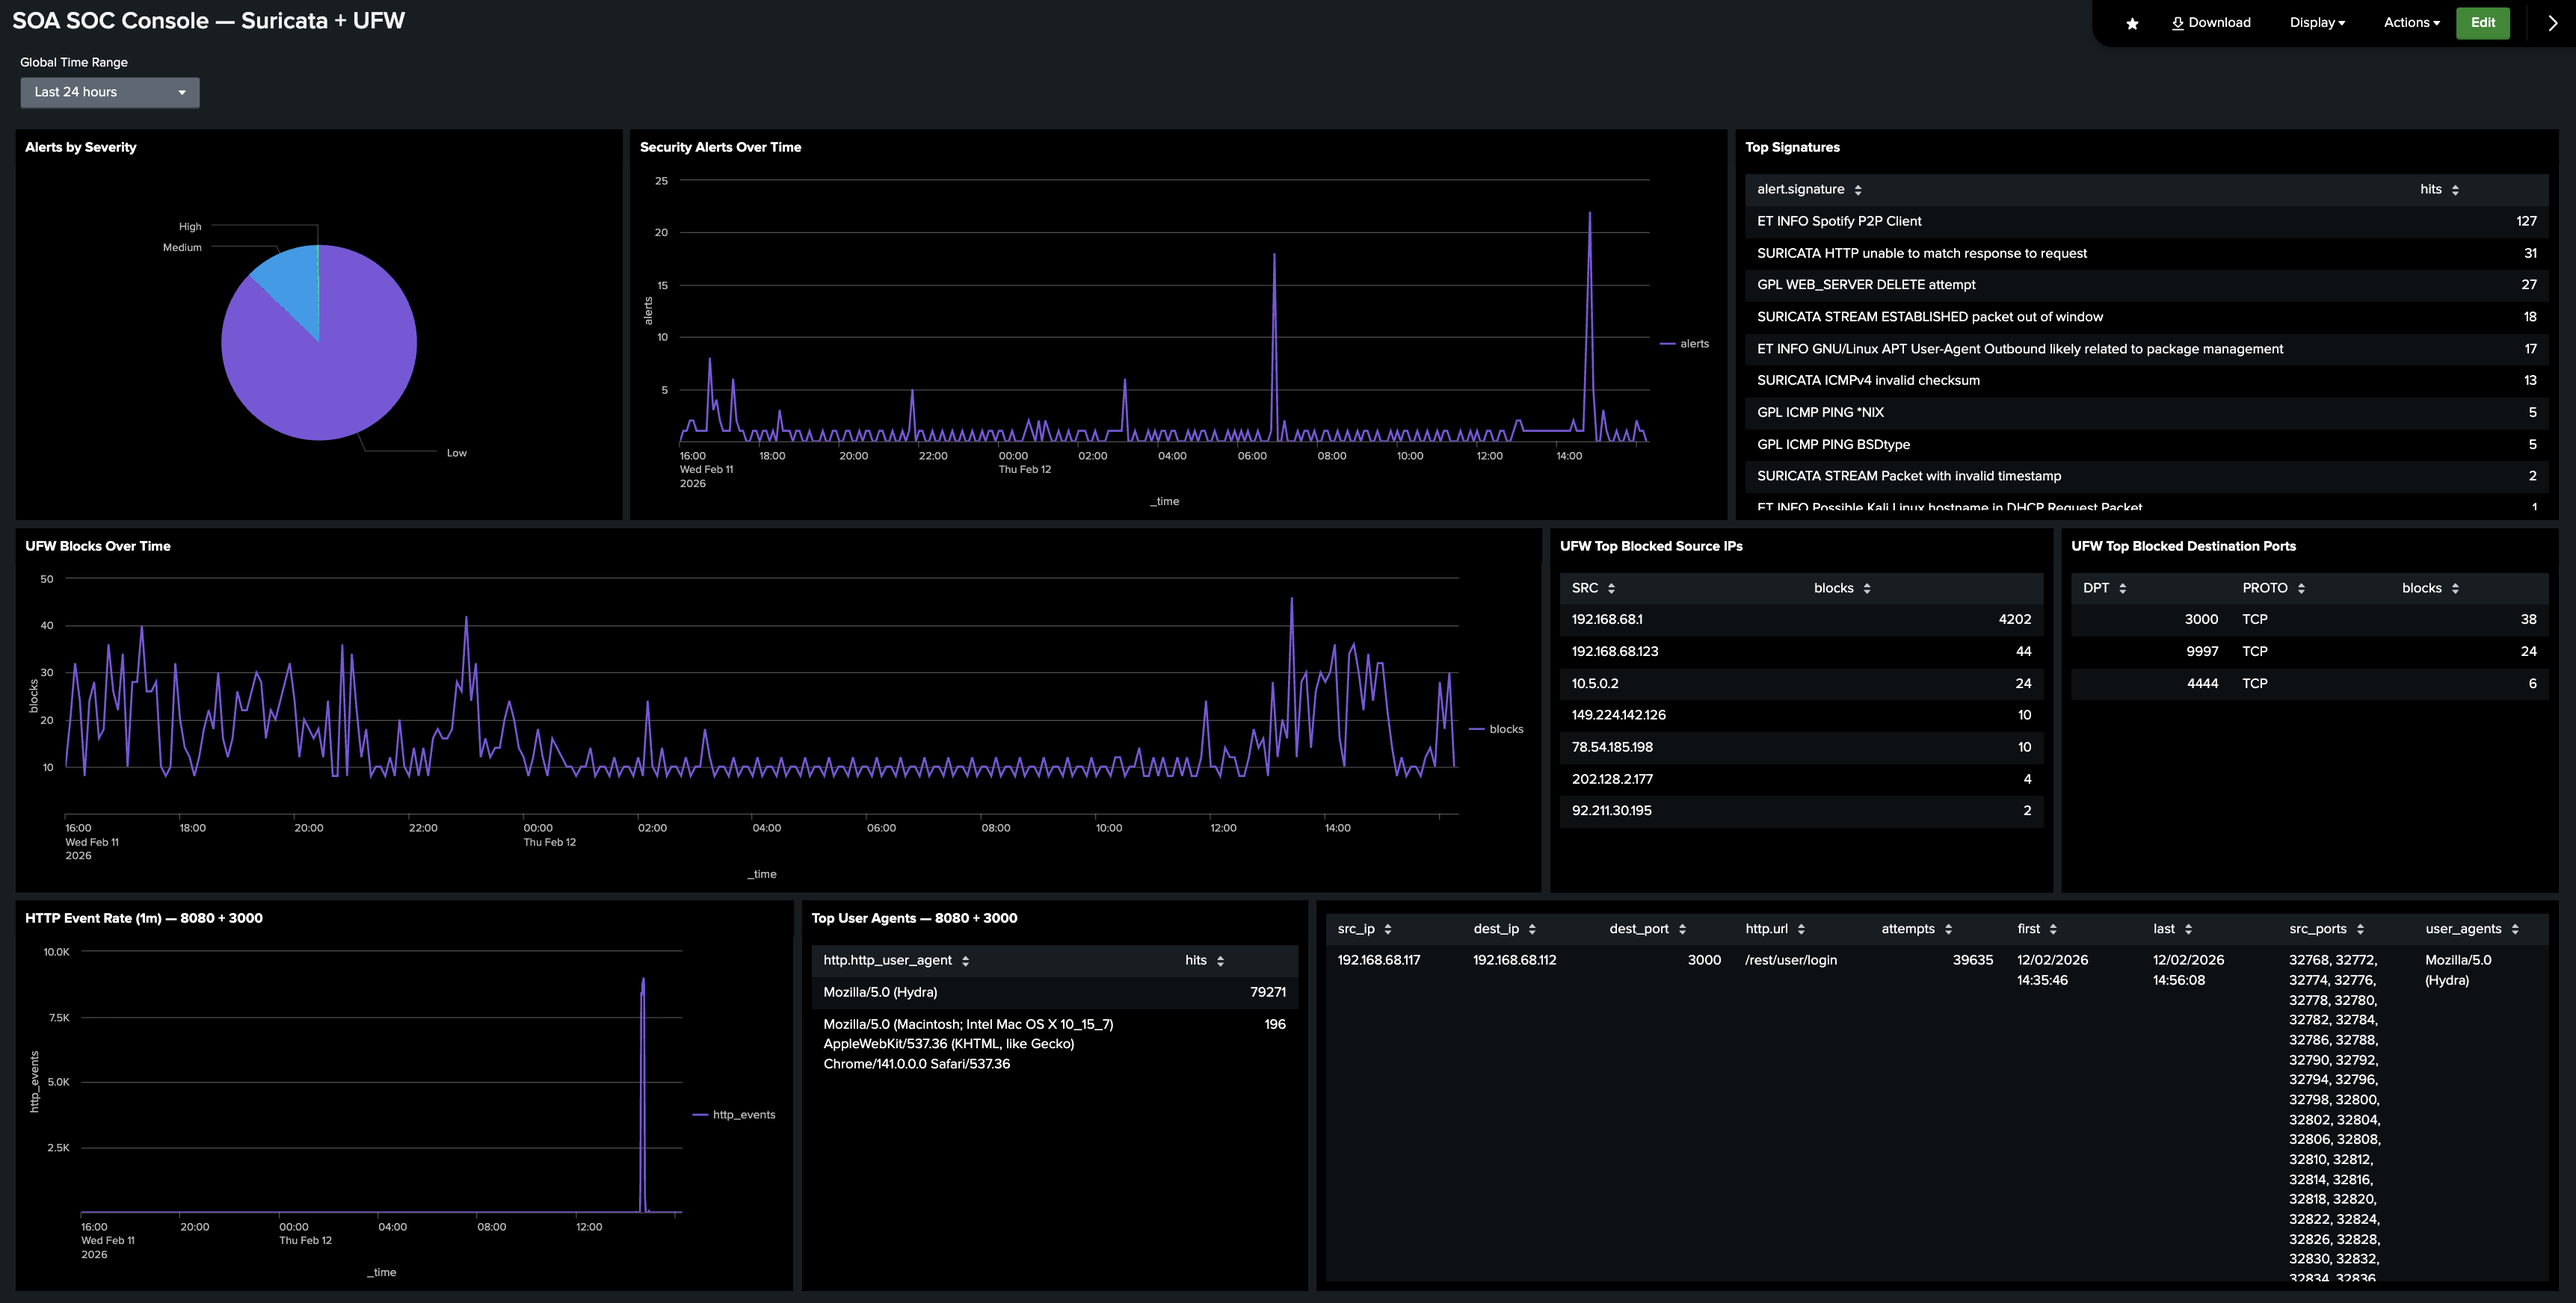
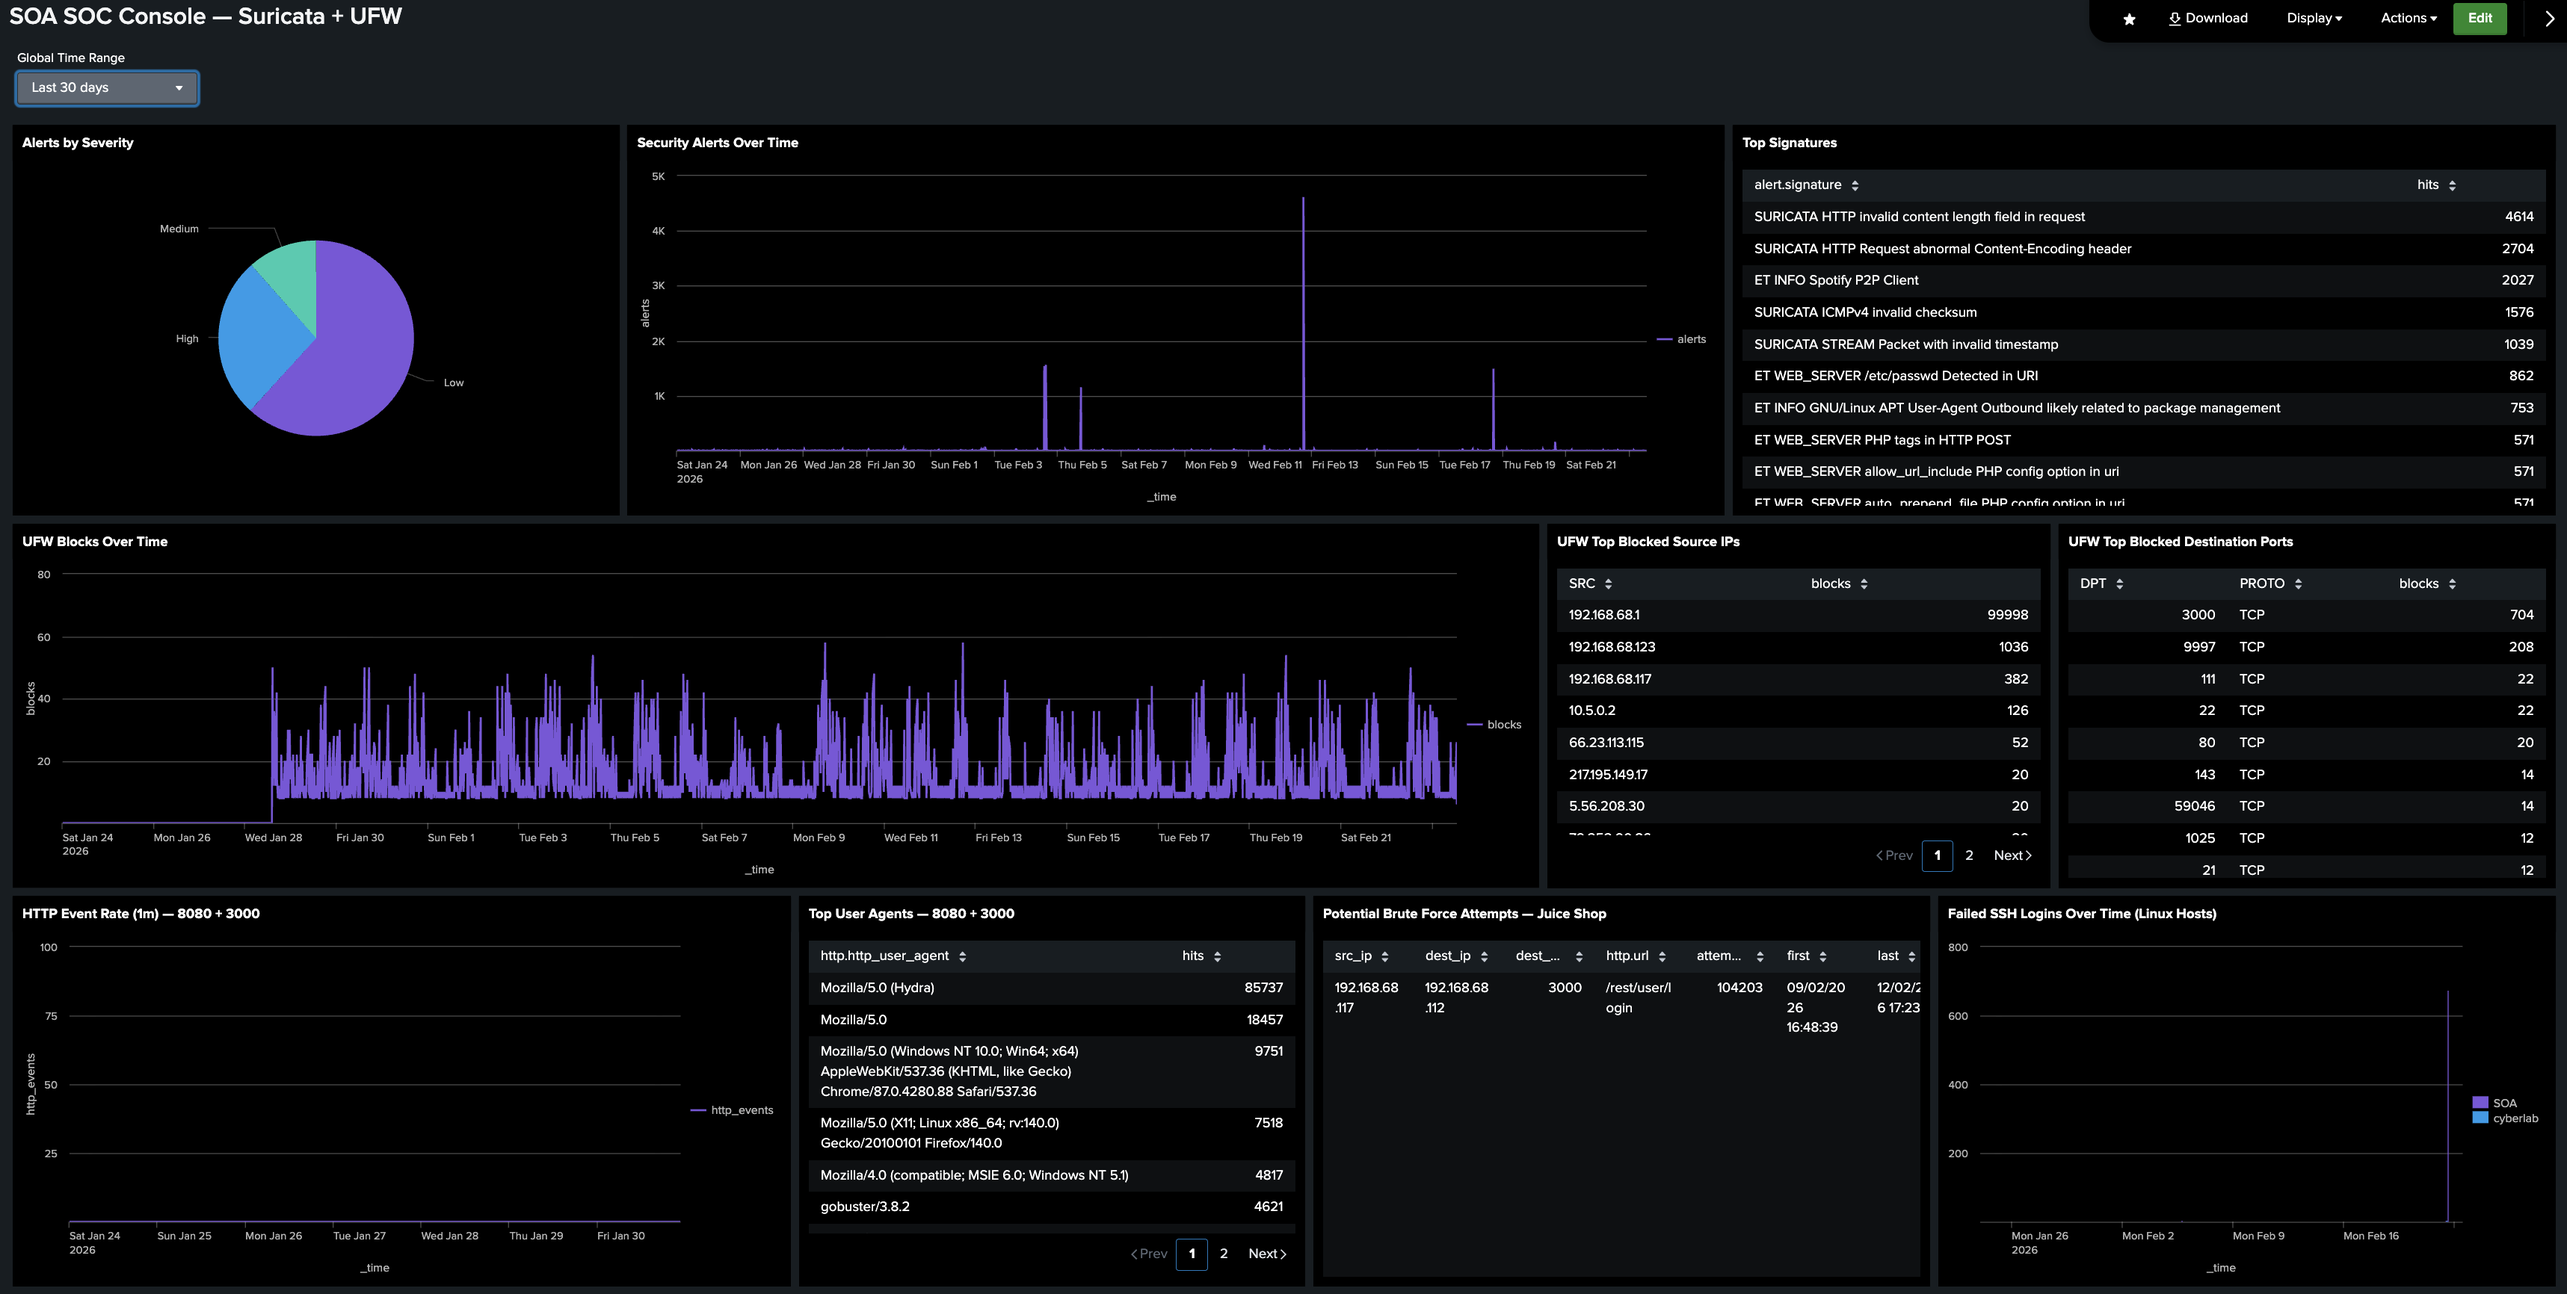
added a new splunk alert, updated a dashboard and the README.

diff --git a/docs/alerts/alert_004_possible_ssh_brute_force_linux_hosts.md b/docs/alerts/alert_004_possible_ssh_brute_force_linux_hosts.md
@@ -1,0 +1,115 @@
+# ALERT-004 Possible SSH Brute Force (Linux Hosts) (≥5 failed logins / 5m)
+
+This alert detects **possible SSH brute force / password guessing** activity against **Linux hosts** in Cyberlab by identifying a **high rate of failed SSH logins** from the same `src_ip` within a short time window.
+
+It is designed to be **simple, reproducible, and SOC-actionable**: one `src_ip` generating **≥5 failed SSH logins** against a Linux host/user within **5 minutes**.
+
+---
+
+## Data Source Used in This Alert
+
+Linux authentication logs (auth.log) forwarded into Splunk
+
+- Index: `endpoints`
+- Sourcetype: `auth`
+- Source: `/var/log/auth.log` (per host)
+- Key fields used:
+  - `host` (Splunk host field = target Linux host)
+  - `src_ip` (extracted from auth log line)
+  - `dest_user` (extracted from auth log line; username being targeted)
+  - `_time` (event timestamp)
+
+**Note:**
+- This alert relies on my custom field extractions for `src_ip` and `dest_user` from the auth log format (e.g., “Failed password for <user> from <ip> ...”).
+
+---
+
+## Alert Logic
+
+Trigger behaviour:
+- Time window: **Last 5 minutes** (set in the alert UI)
+- Schedule: `*/5 * * * *` (runs every 5 minutes)
+- Trigger condition: **Number of results > 0**
+- Trigger mode: **Once** (one alert per run if anything matches)
+
+Important:
+- The **5-minute “bucket”** is created by the alert **Time Range** setting and the SPL `bin _time span=5m`
+- Threshold logic is enforced in SPL (`failed_logins >= 5`)
+
+---
+
+## SPL Used
+```bash
+index=endpoints sourcetype=auth *Failed* "*ssh*"
+| eval dest_host=host
+| bin _time span=5m
+| stats count as failed_logins by _time src_ip dest_host dest_user
+| where failed_logins >= 5
+| sort 0 -failed_logins
+```
+
+---
+
+## SPL Breakdown
+
+- `index=endpoints sourcetype=auth *Failed* "*ssh*"` - Filters to Linux auth events (`sourcetype=auth`) that contain:
+  - `Failed` (failed authentication)
+  - `ssh` (SSH-related events)
+
+- `| eval dest_host=host` - Creates an explicit `dest_host` field so it’s unambiguous that `host` is the **target** system (not the attacker).
+
+- `| bin _time span=5m` - Buckets events into **5-minute windows** so I can count failed logins per attacker/target/user in each window.
+
+- `| stats count as failed_logins by _time src_ip dest_host dest_user`  
+  Aggregates into one row per:
+  - time bucket (`_time`)
+  - attacker (`src_ip`)
+  - target host (`dest_host`)
+  - targeted username (`dest_user`)  
+  Produces `failed_logins` = number of failures for that combination in the window.
+
+- `| where failed_logins >= 5`  
+  Detection threshold: only keep rows that meet the brute-force-style rate (≥5 failures per 5 minutes).
+
+- `| sort 0 -failed_logins`  
+  Sorts by highest failure count first (`0` = no result truncation).
+
+---
+
+## Alert Configuration (Scheduled Search)
+
+### Key Settings (and why they exist)
+
+- Alert type: Scheduled
+- Schedule: Run on Cron Schedule: `*/5 * * * *` (runs every 5 minutes)
+- Time Range: Last 5 minutes (keeps the search tightly scoped and reduces noise)
+- Trigger alert when: Number of Results is greater than 0  
+  (The SPL already enforces `failed_logins >= 5`, so any returned row is alert-worthy.)
+- Trigger: Once  
+  One alert per scheduled run, even if multiple rows match (multiple attacker/host/user combinations).
+- Expires: 24 hours  
+  Keeps the triggered alert visible for review without cluttering the queue forever.
+
+### Trigger Actions
+
+- Add to Triggered Alerts (Severity: Medium)  
+  Puts the alert into a SOC-style queue view for triage.
+- Log Event  
+  Writes a summary event when the alert fires (useful for correlation and audit trail).
+
+---
+
+## Why this is valuable
+
+This alert is intended to demonstrate a realistic SOC pattern:
+
+- SSH password guessing is common lateral-movement / initial-access behaviour.
+- Auth logs are the source-of-truth for authentication outcomes.
+- The output gives clear triage pivots:
+  - which source is attacking (`src_ip`)
+  - which host is targeted (`dest_host`)
+  - which account is being guessed (`dest_user`)
+  - how intense the burst was (`failed_logins`)
+  - when it happened (`_time`)
+
+![ALERT_004](/assets/alert_004.png)

diff --git a/README.md b/README.md
@@ -38,37 +38,20 @@ Cyberlab is a hands-on learning environment designed to:
 
 ### Hardware
 
-- **Desktop PC - Primary SOC Server (Son-of-Anton)** - Ubuntu 24.04 LTS - Runs:
-    - **Splunk Enterprise Indexer** (active, receiving on TCP 9997)
-    - **Suricata IDS** (monitoring live network traffic)
-    - **UFW** - Host Firewall
-    - Docker (containers):
-        - Bitcoin Pruned Node (container, fully synced)
-        - MariaDB (container)
-        - Victim Web Service (nginx container on TCP 8080, used to generate Suricata HTTP telemetry for scanning/testing)
-        - OWASP Juice Shop (TCP 3000)
-  - Purpose:
-    - Acts as the central SOC server
-    - Receives telemetry from all other lab endpoints
-    - Victim
+### Hardware
 
-- **Lenovo ThinkPad T480 – Multi-OS Lab Workstation (Cyberlab)** - Dual-boot System: Ubuntu 24.04 LTS & Windows 10 Pro
-  - Kali Linux installed on Ubuntu (VirtualBox)
-  - Malware Analysis Sandbox installed on Windows (VMware with Windows 10 Pro)
-  - Splunk Universal Forwarder installed on Ubuntu and Windows 10 Pro
-  - Windows 10 VM (VMWare) - Sysmon installed (Olaf Hartong config) and ingesting logs into Splunk via UF
-  - Acts as the “Branch Office” in the Cyberlab environment:
-    - Hosts lightweight services purpose-built for log generation
-    - NGINX static web page (for HTTP access logs)
-    - SMB network share (for simulated file operations)
-    - Cron jobs scheduled to generate synthetic activity (HTTP GET requests and write a timestamped heartbeat entry to `branch-heartbeat.log`).
-    - All relevant logs (nginx_access, nginx_error & branch_heartbeat) forwarded to Splunk (index=branch_office)
-    - See: [NGINX setup](setup/nginx-setup.md) and [SMB / samba setup](setup/smb-samba-setup.md)
+- **Desktop PC — Primary SOC Server (Son-of-Anton)** *(Ubuntu 24.04 LTS)*  
+  **Runs:** Splunk Enterprise (Indexer; recv **TCP 9997**), Suricata IDS, UFW, Docker: Bitcoin pruned node, MariaDB, NGINX victim (**:8080**), OWASP Juice Shop (**:3000**)  
+  **Role:** Central SOC server + telemetry hub + primary victim target
 
-- **MacBook Pro - SOC Analyst Console**  
-  - Main analyst workstation for Splunk Web interface
-  - Runs a Splunk Universal Forwarder
-  - Used to manage the Cyberlab environment via SSH into Desktop PC and ThinkPad
+- **Lenovo ThinkPad T480 — Multi-OS Lab Workstation (Cyberlab)** *(Dual-boot Ubuntu 24.04 LTS / Windows 10 Pro)*  
+  **Ubuntu:** VirtualBox Kali VM; Splunk UF  
+  **Windows:** VMware Win10 sandbox; Sysmon (Olaf Hartong) → Splunk UF  
+  **Role:** “Branch Office” log generator (NGINX, SMB share, heartbeat cron) → forwards to `index=branch_office`  
+  **Docs:** [NGINX setup](setup/nginx-setup.md), [SMB / samba setup](setup/smb-samba-setup.md)
+
+- **MacBook Pro — SOC Analyst Console**  
+  **Role:** Splunk Web + admin/SSH management of SOA and Cyberlab; Splunk UF installed
 
 ### Network
 
@@ -132,6 +115,7 @@ High-level runbooks/templates, detections, alerts, incident reports/case studies
   - [ALERT-001 Encoded Powershell (Sysmon EID 1)](docs/alerts/alert_001_encoded_powershell.md)
   - [ALERT-002 ET SCAN Recon Activity Detected (Port Scan/Probing)](docs/alerts/alert_002_port_scan_activity.md)
   - [ALERT-003 Juice Shop — Possible Brute Force (≥10 login requests / 5m)](docs/alerts/alert_003_possible_brute_force.md)
+  - [ALERT-004 Possible SSH Brute Force (Linux Hosts) (≥5 failed logins / 5m)](docs/alerts/alert_004_possible_ssh_brute_force_linux_hosts.md)
 
 - **Reports**
   - [IR-001 Brute Force Attempt Against OWASP Juice Shop Login (Hydra) — Detected via Splunk + Suricata](docs/reports/ir_001_brute_force_attempt_juice_shop.md)

diff --git a/docs/reports/ir_003_ssh_brute_force_attempt.md b/docs/reports/ir_003_ssh_brute_force_attempt.md
@@ -1,0 +1,79 @@
+# IR-004 — SSH Brute Force Attempt Detected (Linux Auth Logs) – SOA
+
+**Date/Time (UTC):** 22-02-2026 15:10 to 15:15  
+**Severity:** Medium 
+**Status:** Closed
+**Category:** Credential Attack
+
+---
+
+## 1) Trigger
+What caused me to start investigating?
+- **Source:** ALERT-004 Possible SSH Brute Force (Linux Hosts)
+- **Reason it looked suspicious:** spike in failed login attempts
+
+---
+
+## 2) Evidence (Key Artifacts)
+Bullet the *minimum* hard evidence I used.
+- 2026-02-22T15:14:45.748675+00:00 SOA sshd[902807]: Failed password for root from 192.168.68.117 port 42100 ssh2
+- 2026-02-22T15:14:45.748096+00:00 SOA sshd[902808]: Failed password for root from 192.168.68.117 port 42114 ssh2
+- 22-02-2026 15:10 to 15:15 - 384 failed login attempts (source: /var/log/auth.log) triggering ALERT-004 Possible SSH Brute Force (Linux Hosts)
+
+---
+
+## 3) Scope
+What systems/entities are involved?
+- **Primary target:** SOA `192.168.68.112` SSH port 22
+- **Other affected assets:** none observed
+- **Suspected source:** `192.168.68.117`
+- **Time window:** 15:10 / 15:15
+- **Volume:** 384 failed ssh login attempts
+
+---
+
+## 4) Triage Analysis
+Answer these explicitly:
+- **What was attempted?**  
+  SSH brute force login attempt at SOA 192.168.68.112 port 22. (High volume attempts)
+- **Did it succeed? Why/why not?**  
+  Failed. No succesful SSH sessions opened from 15:10 and 15:30
+- **Impact:**  
+  None observed
+
+---
+
+## 5) Actions Taken
+What I actually did during the case (or would do in a real org).
+- **Containment:** None (In a real org: temporarily block `192.168.68.117`)
+- **Eradication/Hardening:** (In a real org: enforce key-only auth)
+- **Recovery:** Not required
+
+---
+
+## 6) Lessons Learned / Improvements
+What will I change so the lab gets better next time?
+- Learned that Splunk Fast Mode hides manual field extractions, so SSH triage should be done in Smart Mode.
+
+---
+
+## 7) Summary
+An SSH brute-force style password guessing burst was observed against SOA (192.168.68.112:22) from 192.168.68.117, generating 384 failed login attempts between 15:10–15:15 UTC. No evidence of a successful SSH session was observed in the window, so the activity is assessed as blocked/failed with no impact.
+
+---
+
+## Evidence Attachments
+![Alert Trigger](/assets/ir_003_image_01.png)
+
+
+![Raw Events](/assets/ir_003_image_02.png)
+
+
+![Proof of no succesful logins](/assets/ir_003_image_03.png)
+
+
+----
+
+## Expolit Screenshot
+
+![Hydra SSH bruteforce](/assets/ir_003_image_04.png)

diff --git a/docs/splunk_dashboards/soa_soc_console_dashboard.md b/docs/splunk_dashboards/soa_soc_console_dashboard.md
@@ -1,4 +1,4 @@
-# SOA SOC Console — Suricata + UFW (Splunk Dashboard Studio)
+# SOA SOC Console — (Splunk Dashboard Studio)
 
 This dashboard is a SOC-style console for **SOA** in Cyberlab, combining **Suricata on SOA** (host-based network monitoring of traffic visible to SOA’s capture interface) and **UFW on SOA** (host firewall blocks).
 
@@ -14,15 +14,11 @@ Scope: visibility is **SOA-centric** (traffic to/from SOA), not full-network mon
 
 ## Data Source Used in This Dashboard
 
-SOA (Server / Ubuntu) — Suricata + UFW logs forwarded into Splunk
+SOA (Server / Ubuntu) — multiple telemetry sources forwarded into Splunk
 
-- **Suricata**
-  - Index: `ids`
-  - Sourcetype: `suricata:eve`
-
-- **UFW**
-  - Index: `endpoints`
-  - Sourcetype: `ufw`
+- **Suricata:** Index: `ids`, Sourcetype: `suricata:eve`
+- **UFW:** Index: `endpoints`, Sourcetype: `ufw`
+- **Linux Auth Logs:** Index: `endpoints`, Sourcetype: `auth`
 
 ---
 
@@ -53,6 +49,7 @@ SPL Used:
   - `2 → Medium`
   - `3 → Low`
   - anything else → `Unknown`
+  - `case()` is like an if / else-if / else chain
 
 - `| stats count as alerts by severity` - Counts the number of Suricata alerts per severity bucket.
 
@@ -234,3 +231,17 @@ SPL Used:
 
 **Purpose:**
 Surfaces potential brute-force / password-guessing behaviour against Juice Shop by flagging **high-rate login endpoint activity** from a single `src_ip`. This panel is designed for quick triage: identify the source, confirm the burst window, and spot automation hints via user-agent patterns.
+
+## 10. Failed SSH Logins Over Time (Linux Hosts) — Visualization: Column Chart
+
+SPL Used:
+```bash
+index=endpoints host=SOA sourcetype=auth *Failed* *ssh*
+| timechart span=15m count as failed_ssh_logins
+```
+
+- `index=endpoints host=SOA sourcetype=auth *Failed* *ssh*` - Searches SOA’s Linux authentication logs ingested into Splunk (`sourcetype=auth`), filtered to SSH-related failure messages.
+- `| timechart span=15m count as failed_ssh_logins` - Buckets matching events into 15-minute intervals and counts how many failed SSH logins occurred in each bucket.
+
+**Purpose:**
+Provides a quick SOC-style view of failed SSH login activity on **SOA**. Spikes can indicate password-guessing/brute-force behaviour and help define the investigation window.

diff --git a/progress-log.md b/progress-log.md
@@ -5,6 +5,18 @@ Entries are added as new components are installed, tested, or refined.
 
 
 ---
+## 23-02-2026  
+SOA SOC Console Dashboard Update + SSH Brute Force Alert (Linux Hosts)
+
+- Updated the **[SOA SOC Console](/docs/splunk_dashboards/soa_soc_console.md)** dashboard:
+  - Added a new panel: **Failed SSH Logins Over Time**
+
+- Created a new Splunk scheduled alert for Linux auth-based ssh brute force detection:
+  - **[ALERT-004 Possible SSH Brute Force (Linux Hosts)](/docs/alerts/alert_004_possible_ssh_brute_force_linux_hosts.md)** — triggers on **≥5 failed SSH logins / 5m** from the same `src_ip` against a Linux host/user 
+
+![ALERT-004](/assets/alert_004.png)
+
+
 ## 20-02-2026   
 IR Runbook + IR Report Template Added + Suricata IDS Dashboard (Juice Shop Tab) Update + IR-002 Report
 
